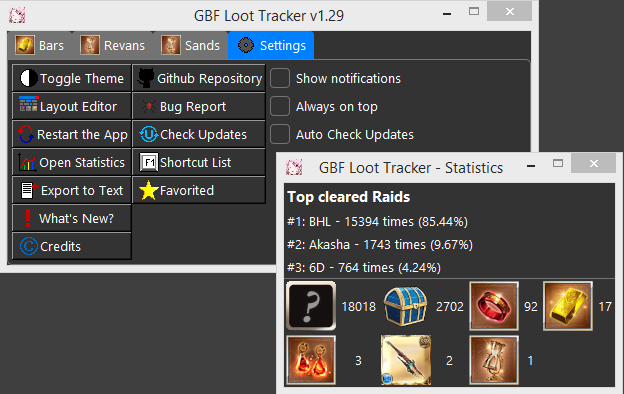
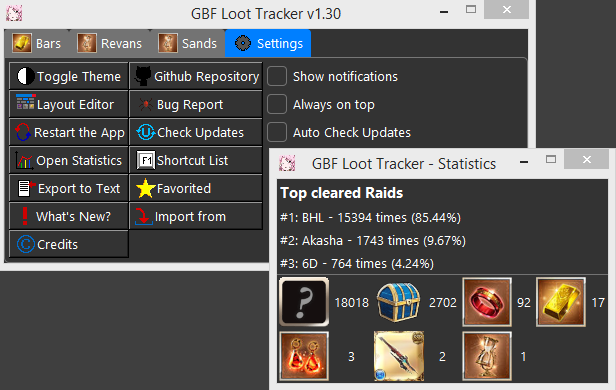
1.30 import feature & notification shortcut

Changed region(s): [[0.0, 0.0, 1.0, 1.0]]

diff --git a/readme.md b/readme.md
@@ -5,6 +5,7 @@
 ### Features  
 * Lightweight.  
 * No third-party dependencies required.  
+* No Executable. You can even open and modify the application in a notepad.  
 * Light and Dark themes based on the [Azure TTK Theme](https://github.com/rdbende/Azure-ttk-theme) and the [Forest TTK Theme](https://github.com/rdbende/Forest-ttk-theme).  
 * Customizable layout.  
 * Keyboard shortcuts.  
@@ -37,6 +38,7 @@ If it doesn't work or if you want to manually update:
 * `T`: Toggle the `Always on top` settings.  
 * `S`: Toggle the Statistics window.  
 * `L`: Toggle the Light and Dark themes.  
+* `N`: Toggle the Notification Bar.  
 * `E`: Open the Layout Editor.  
 * `R`: Restart the application.  
 * `U`: Check for updates.  
